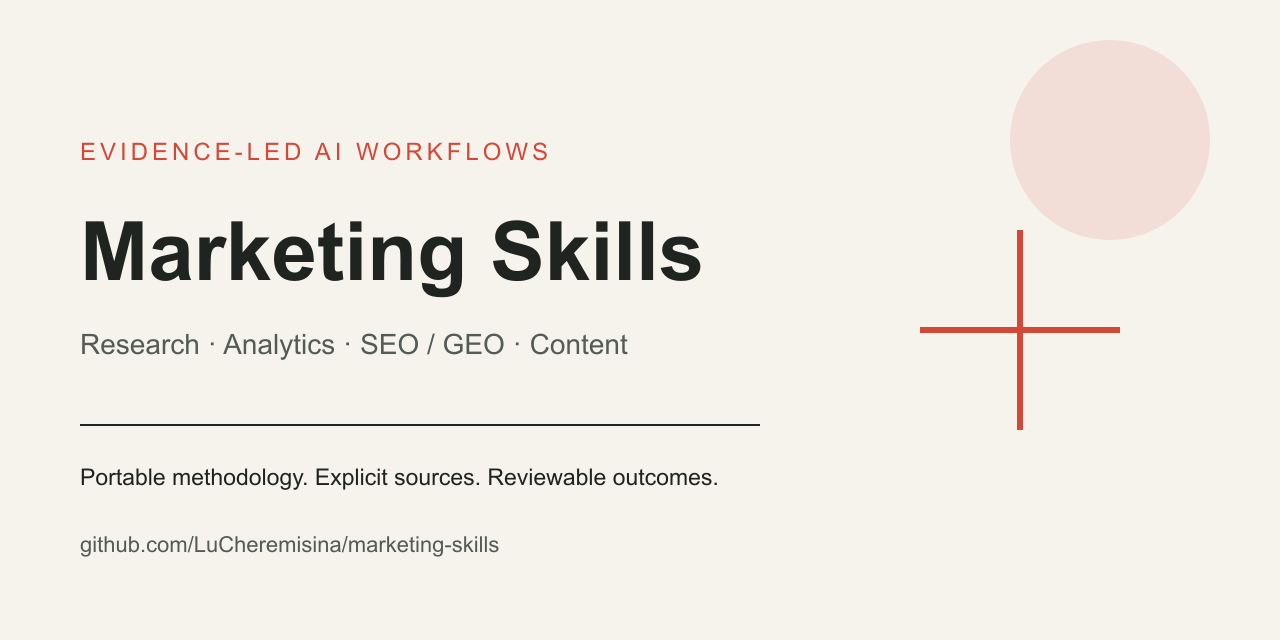
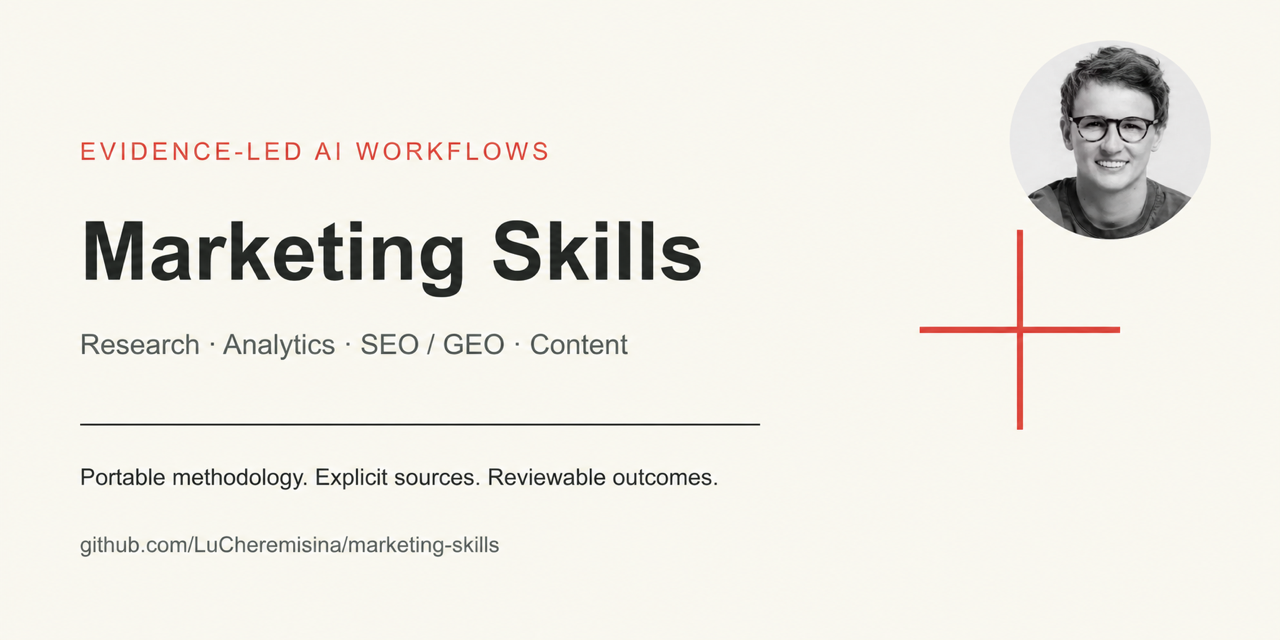
Add methodologist portrait to repository social cover

diff --git a/assets/README.md b/assets/README.md
@@ -1,0 +1,4 @@
+# Repository social cover
+
+The social cover contains Lyubov Cheremisina’s public professional portrait, used at her explicit request. Portrait source: https://cheremisina.online/media/314d9f02bad4b9a2-lyubov-portrait.webp (checked 2026-10-06). The SVG embeds the source photograph for an editable layout; the PNG is the final image-assisted composition used by GitHub.
+
